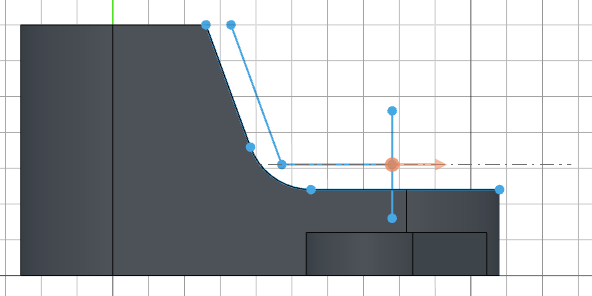
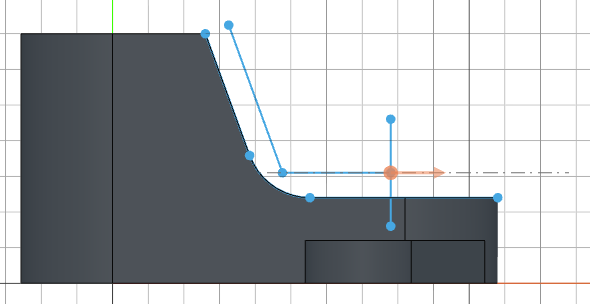
docs: fix l-stub tutorial

diff --git a/website/docs/tutorials/_examples/l-stub-final.js b/website/docs/tutorials/_examples/l-stub-final.js
@@ -1,6 +1,6 @@
 // @screenshot waitForInput
 import { enclosing } from "fluidcad/constraints";
-import { aLine, back, circle, cut, extrude, fillet, fuse, hLine, hMove, intersect, line, mirror, move, rect, sketch, slot, subtract, tLine, vLine, vMove } from "fluidcad/core";
+import { aLine, back, circle, cut, extrude, fillet, fuse, hLine, hMove, intersect, mirror, move, pMove, rect, sketch, slot, subtract, tLine, vLine, vMove } from "fluidcad/core";
 
 sketch("top", () => {
     const s = slot(82, 26);
@@ -65,12 +65,14 @@ sketch("front", () => {
     const vl = vLine(30).centered();
 
     move([0, 70]);
-    hMove(26 + thickness);
-    const l1 = aLine(-90 - 70, hl)
+    hMove(26)
+    pMove(7, -90+20)
+    aLine(-90, hl)
     hLine(vl)
 
     fillet(24)
-    line(l1.start(), i.end())
+    move(i.end());
+    hLine(10)
 }).name("Rib Sketch");
 
 extrude(10).symmetric().name("Rib")

diff --git a/website/docs/tutorials/_examples/l-stub-step6-sketch.js b/website/docs/tutorials/_examples/l-stub-step6-sketch.js
@@ -1,6 +1,6 @@
 // @screenshot waitForInput
 import { enclosing } from "fluidcad/constraints";
-import { aLine, back, circle, cut, extrude, fillet, fuse, hLine, hMove, intersect, line, mirror, move, rect, sketch, slot, subtract, tLine, vLine, vMove } from "fluidcad/core";
+import { aLine, back, circle, cut, extrude, fillet, fuse, hLine, hMove, intersect, mirror, move, pMove, rect, sketch, slot, subtract, tLine, vLine, vMove } from "fluidcad/core";
 
 sketch("top", () => {
     const s = slot(82, 26);
@@ -65,10 +65,12 @@ sketch("front", () => {
     const vl = vLine(30).centered();
 
     move([0, 70]);
-    hMove(26 + thickness);
-    const l1 = aLine(-90 - 70, hl)
+    hMove(26)
+    pMove(7, -90+20)
+    aLine(-90, hl)
     hLine(vl)
 
     fillet(24)
-    line(l1.start(), i.end())
+    move(i.end());
+    hLine(10)
 }).name("Rib Sketch");

diff --git a/website/docs/tutorials/_examples/l-stub-step6-angle.js b/website/docs/tutorials/_examples/l-stub-step6-angle.js
@@ -1,6 +1,6 @@
 // @screenshot waitForInput
 import { enclosing } from "fluidcad/constraints";
-import { aLine, back, circle, cut, extrude, fillet, fuse, hLine, hMove, intersect, line, mirror, move, rect, sketch, slot, subtract, tLine, vLine, vMove } from "fluidcad/core";
+import { aLine, back, circle, cut, extrude, fillet, fuse, hLine, hMove, intersect, mirror, move, pMove, rect, sketch, slot, subtract, tLine, vLine, vMove } from "fluidcad/core";
 
 sketch("top", () => {
     const s = slot(82, 26);
@@ -65,7 +65,8 @@ sketch("front", () => {
     const vl = vLine(30).centered();
 
     move([0, 70]);
-    hMove(26 + thickness);
-    const l1 = aLine(-90 - 70, hl)
+    hMove(26)
+    pMove(7, -90+20)
+    aLine(-90, hl)
     hLine(vl)
 }).name("Rib Sketch");
